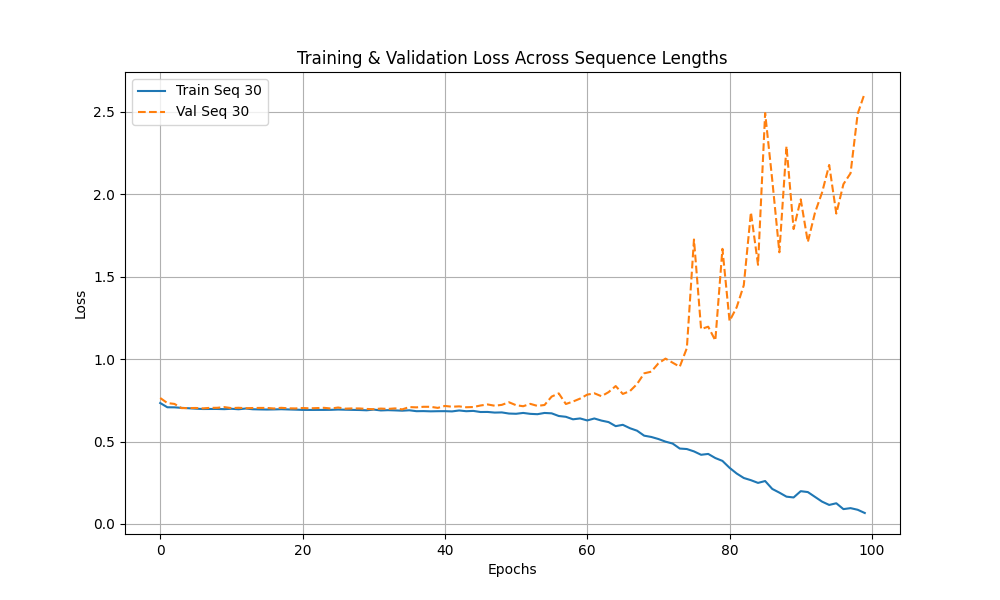
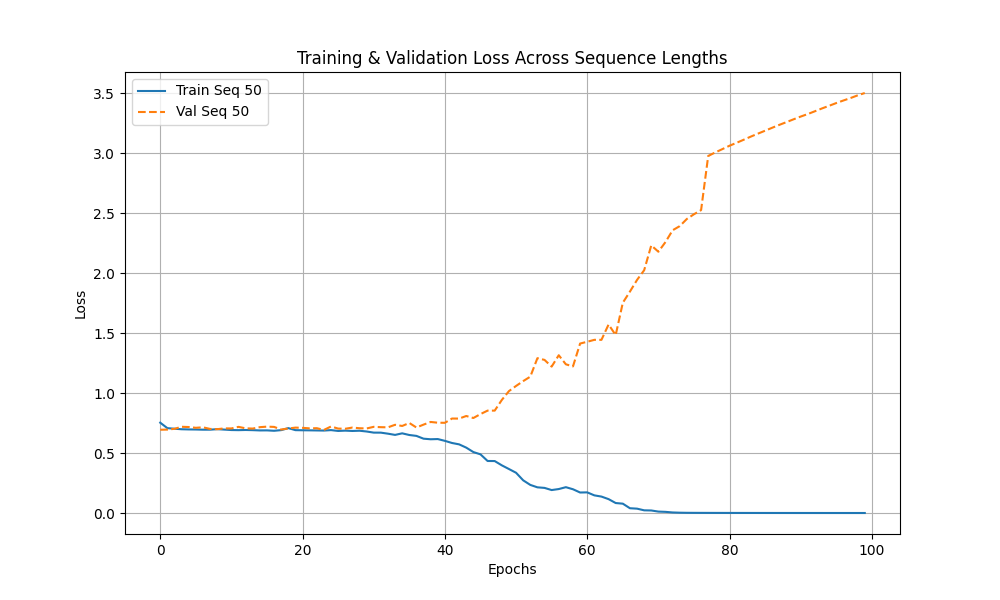
first working version for sequence length 50

diff --git a/exercise/trains-lstm-debugger.py b/exercise/trains-lstm-debugger.py
@@ -103,7 +103,7 @@ def plot_losses(losses_dict, filename="loss_plot.png"):
 
 # Define parameter sets
 params = {
-    "sequence_lengths": [30],
+    "sequence_lengths": [50],
     "hidden_sizes": [128],
     "num_layers": [2],
     "dropouts": [0.05],  # Reduced dropout

diff --git a/exercise/README.md b/exercise/README.md
@@ -50,7 +50,8 @@ Having more epoches some what solve this problem
         5. In my case, I see an improvement when the model only a sequence of 10 numbers. hidden size at 128 helps. 
         6. Now I know that my model can learn shorter inputs, the problem will be the longer inputs
         7. longer inputs will need deeper models. For Neuralnetwork, deeper model is prone to gradient vanishing. Means that gradient is close to zeros for earlier layer. To detect such things, plot the change of gradients for each layer of neutrons. If the gradients close to zeros, means that there's no adjustment in the parameters. 
-
+        8. Most important parameters to looking into is dropouts and learning rates. Don't set drop out if model is not learning. Too much drop out will kill neurons. Learning rates is set to very slow like 0.001 and increase epoches to see if it's get there
+        9. To debugging local minima, you will see the loss function has some spike, the spike means that it's escape the local minima and going somewhere else. 
 
 ### Odd or even LSTM case
 Notes
